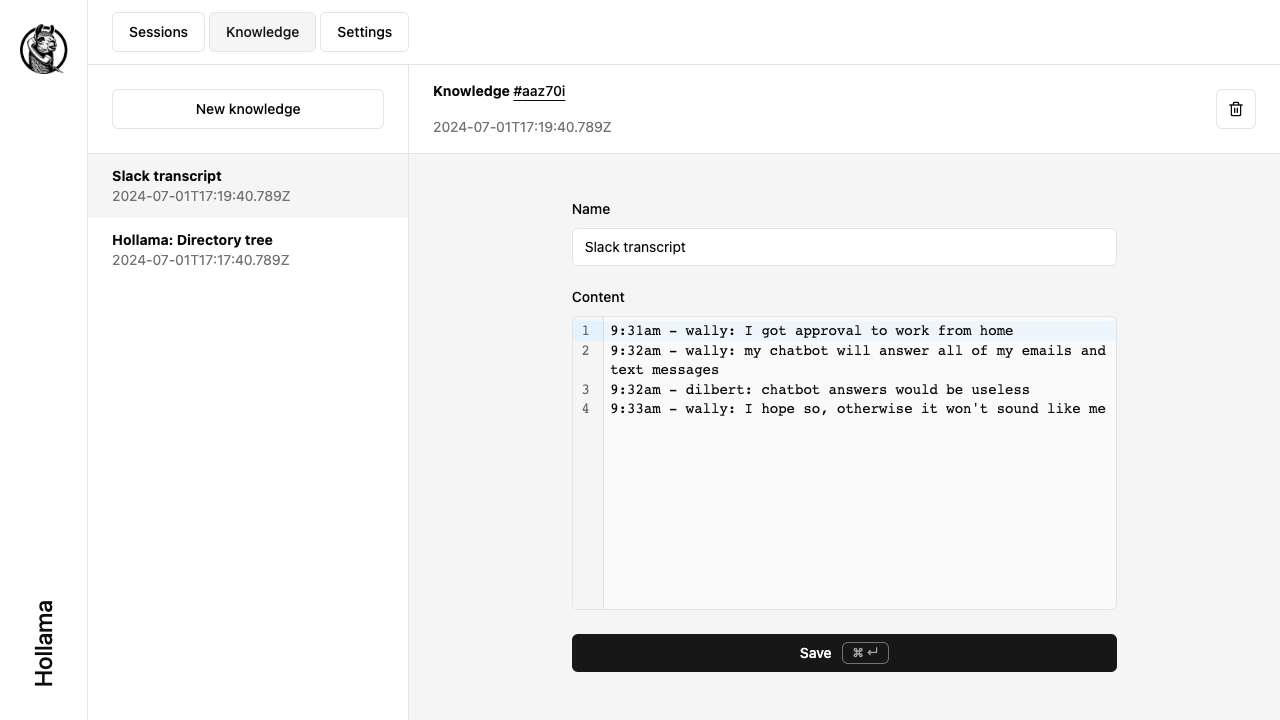
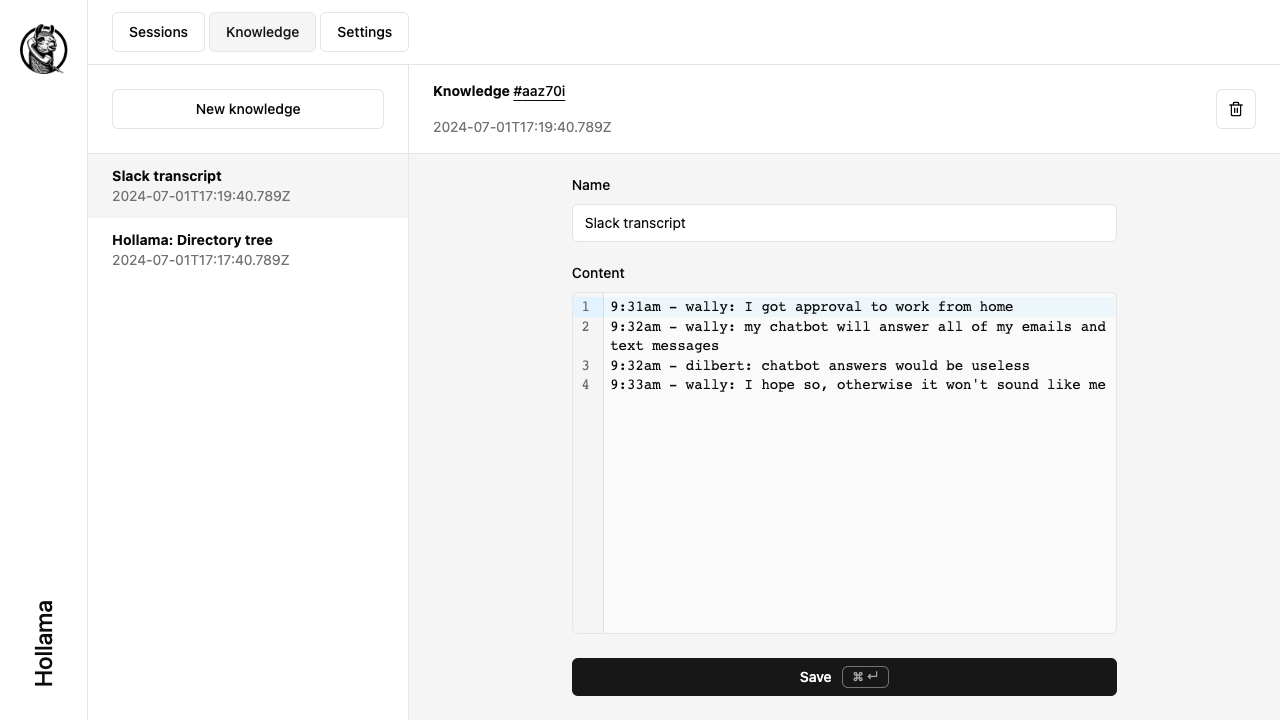
fix: text editor growing "out of bounds"
Closes #67

Changed region(s): [[0.4375, 0.2444, 0.875, 0.5806], [0.4375, 0.8556, 0.875, 0.9778]]

diff --git a/src/routes/knowledge/[id]/+page.svelte b/src/routes/knowledge/[id]/+page.svelte
@@ -46,7 +46,7 @@
 	});
 </script>
 
-<div class="flex h-full w-full flex-col">
+<div class="flex h-full w-full flex-col overflow-hidden">
 	<Header>
 		<div class="space-y-4">
 			<p data-testid="knowledge-id" class="text-sm font-bold leading-none text-foreground">
@@ -77,14 +77,12 @@
 			<svelte:fragment slot="label">Name</svelte:fragment>
 			<input id="name" class="input" bind:value={name} />
 		</Field>
-		<Field name="content" class="h-full">
-			<svelte:fragment slot="label">Content</svelte:fragment>
-			{#key knowledge}
-				<FieldTextEditor {handleSubmit} bind:value={content} />
-			{/key}
-		</Field>
 
-		<ButtonSubmit {handleSubmit} disabled={!name || !content} >Save</ButtonSubmit>
+		{#key knowledge}
+			<FieldTextEditor label="Content" {handleSubmit} bind:value={content} />
+		{/key}
+
+		<ButtonSubmit {handleSubmit} disabled={!name || !content}>Save</ButtonSubmit>
 	</Fieldset>
 </div>
 

diff --git a/src/lib/components/FieldTextEditor.svelte b/src/lib/components/FieldTextEditor.svelte
@@ -3,7 +3,9 @@
 	import { basicSetup } from 'codemirror';
 	import { EditorView, keymap } from '@codemirror/view';
 	import { Prec } from '@codemirror/state';
+	import Field from './Field.svelte';
 
+	export let label: string;
 	export let value: string;
 	export let handleSubmit: Function;
 
@@ -49,11 +51,14 @@
 	});
 </script>
 
-<div class="text-editor" bind:this={container}></div>
+<Field name="content" class="h-full overflow-y-auto">
+	<svelte:fragment slot="label">{label}</svelte:fragment>
+	<div class="text-editor" bind:this={container}></div>
+</Field>
 
 <style lang="scss">
 	.text-editor {
-		@apply h-full overflow-hidden rounded-md border border-input bg-neutral-50;
+		@apply h-full max-h-full overflow-y-auto rounded-md border border-input bg-neutral-50;
 
 		:global(.cm-editor) {
 			@apply h-full text-sm;

diff --git a/src/routes/sessions/[id]/+page.svelte b/src/routes/sessions/[id]/+page.svelte
@@ -187,12 +187,9 @@
 					</div>
 				{/if}
 
-				<Field class="h-full" name="prompt">
-					<svelte:fragment slot="label">Prompt</svelte:fragment>
-					{#key session}
-						<FieldTextEditor {handleSubmit} bind:value={prompt} />
-					{/key}
-				</Field>
+				{#key session}
+					<FieldTextEditor label="Prompt" {handleSubmit} bind:value={prompt} />
+				{/key}
 
 				<div class="flex w-full">
 					<ButtonSubmit {handleSubmit} disabled={!prompt}>Run</ButtonSubmit>

diff --git a/src/lib/components/Fieldset.svelte b/src/lib/components/Fieldset.svelte
@@ -3,15 +3,15 @@
 </script>
 
 <fieldset class="fieldset {isFullscreen ? 'fieldset--fullscreen' : ''}">
-	<slot></slot>
+	<slot />
 </fieldset>
 
 <style lang="scss">
 	.fieldset {
-		@apply container mx-auto flex max-w-full xl:max-w-[70%] flex-col gap-y-6;
+		@apply container mx-auto flex max-w-full flex-col gap-y-6 xl:max-w-[70%];
 
 		&--fullscreen {
-			@apply h-full py-12;
+			@apply h-full py-6 overflow-hidden;
 		}
 	}
 </style>
